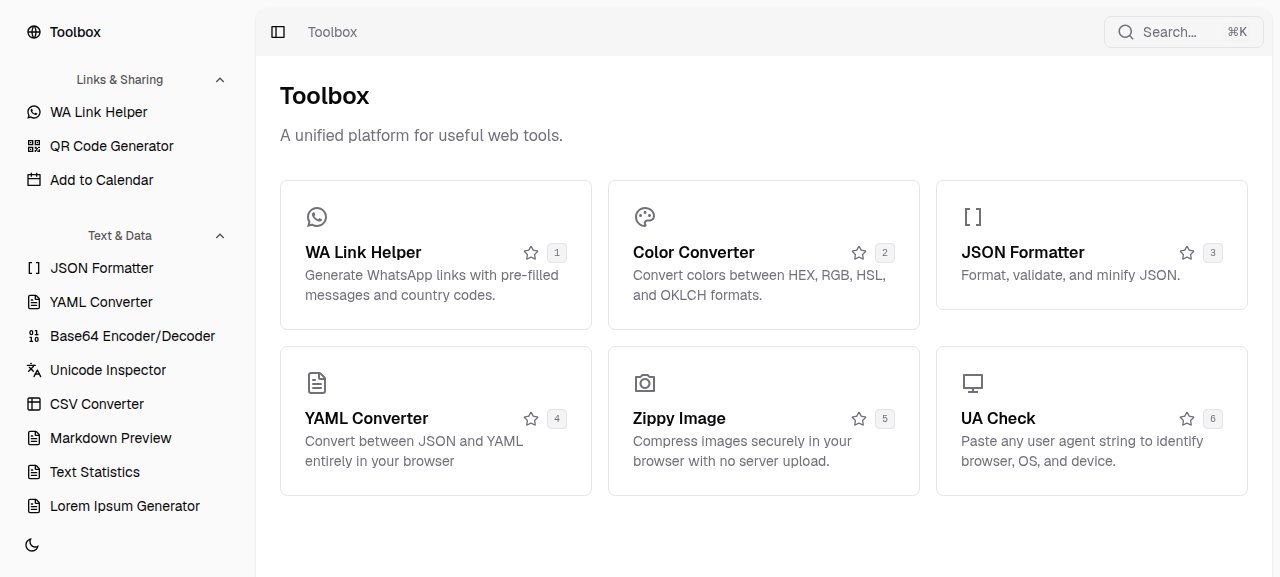
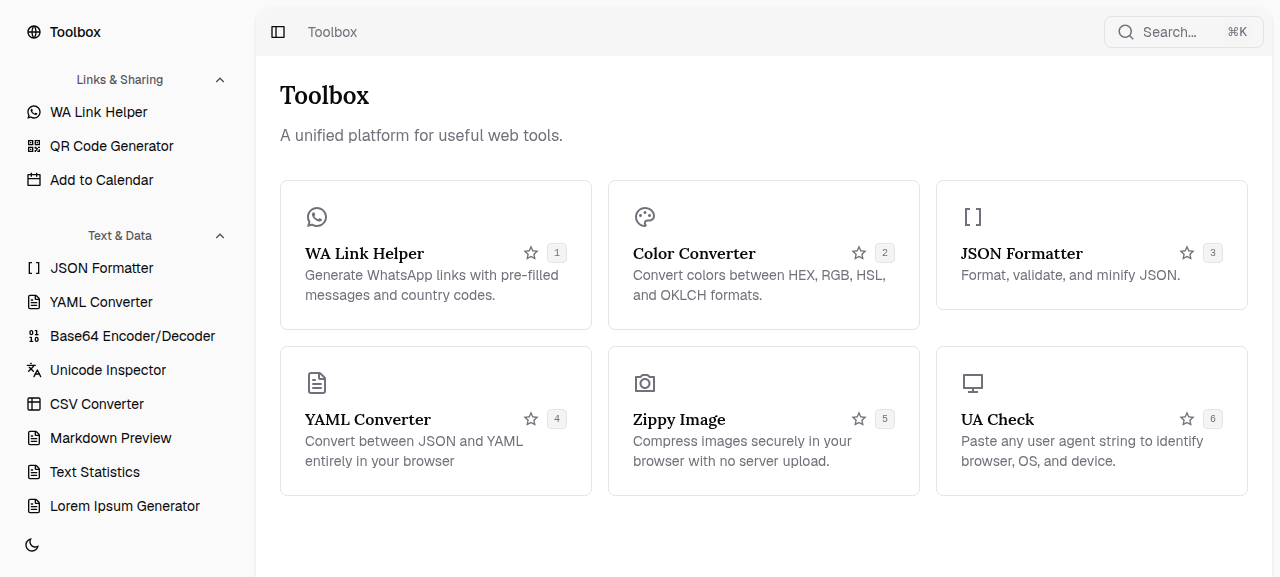
fix(ui): resolve menu crash and align display type with preset

diff --git a/src/routes/index.tsx b/src/routes/index.tsx
@@ -1,5 +1,5 @@
+import { RiStarFill, RiStarLine } from '@remixicon/react';
 import { createFileRoute, Link, useNavigate } from '@tanstack/react-router';
-import { Star } from 'lucide-react';
 import { useEffect } from 'react';
 
 import { StaggerChildren } from '@/lib/components/animations/stagger-children';
@@ -54,7 +54,7 @@ function HomePage() {
   return (
     <div className="flex flex-col gap-y-8">
       <section className="space-y-3">
-        <h1 className="text-pretty font-semibold text-2xl/8 text-foreground">
+        <h1 className="text-pretty font-heading font-semibold text-2xl/8 text-foreground">
           {SITE_NAME}
         </h1>
         <p className="max-w-2xl text-muted-foreground">{SITE_DESCRIPTION}</p>
@@ -62,7 +62,9 @@ function HomePage() {
 
       {pinnedTools.length > 0 && (
         <section className="space-y-4">
-          <h2 className="font-semibold text-foreground text-lg">Pinned</h2>
+          <h2 className="font-heading font-semibold text-foreground text-lg">
+            Pinned
+          </h2>
           <StaggerChildren className="grid gap-4 md:grid-cols-2 lg:grid-cols-3">
             {pinnedTools.map((tool) => (
               <ToolCard
@@ -113,7 +115,7 @@ function ToolCard({ isPinned, shortcut, togglePin, tool }: ToolCardProps) {
       </div>
       <CardHeader className="gap-y-1 p-0">
         <div className="flex items-center justify-between gap-2">
-          <h2 className="font-semibold text-base/6 text-foreground">
+          <h2 className="font-heading font-semibold text-base/6 text-foreground">
             {tool.title}
           </h2>
           <div className="flex shrink-0 items-center gap-2">
@@ -129,9 +131,12 @@ function ToolCard({ isPinned, shortcut, togglePin, tool }: ToolCardProps) {
               type="button"
             >
               {pinned ? (
-                <Star className="size-4 text-amber-500" fill="currentColor" />
+                <RiStarFill
+                  aria-hidden="true"
+                  className="size-4 text-amber-500"
+                />
               ) : (
-                <Star className="size-4" />
+                <RiStarLine aria-hidden="true" className="size-4" />
               )}
             </button>
             {shortcut !== undefined && (

diff --git a/src/routes/homepage/-components/homepage-privacy.tsx b/src/routes/homepage/-components/homepage-privacy.tsx
@@ -2,7 +2,7 @@ export function HomepagePrivacy() {
   return (
     <section className="border-border/70 border-y bg-muted/40" id="privacy">
       <div className="mx-auto w-full max-w-7xl px-4 py-12 sm:py-16 lg:px-6">
-        <h2 className="max-w-xl text-balance font-semibold text-3xl text-foreground sm:text-4xl">
+        <h2 className="max-w-xl text-balance font-heading font-semibold text-3xl text-foreground sm:text-4xl">
           Your inputs stay yours.
         </h2>
         <p className="mt-3 max-w-2xl text-pretty text-muted-foreground">
@@ -10,7 +10,7 @@ export function HomepagePrivacy() {
         </p>
         <ul className="mt-8 grid list-none gap-6 p-0 sm:grid-cols-3">
           <li className="min-w-0">
-            <h3 className="text-balance font-semibold text-foreground">
+            <h3 className="text-balance font-heading font-semibold text-foreground">
               Processed in your browser
             </h3>
             <p className="mt-2 text-muted-foreground text-sm">
@@ -19,7 +19,7 @@ export function HomepagePrivacy() {
             </p>
           </li>
           <li className="min-w-0">
-            <h3 className="text-balance font-semibold text-foreground">
+            <h3 className="text-balance font-heading font-semibold text-foreground">
               No account needed
             </h3>
             <p className="mt-2 text-muted-foreground text-sm">
@@ -28,7 +28,7 @@ export function HomepagePrivacy() {
             </p>
           </li>
           <li className="min-w-0">
-            <h3 className="text-balance font-semibold text-foreground">
+            <h3 className="text-balance font-heading font-semibold text-foreground">
               Leave with a result
             </h3>
             <p className="mt-2 text-muted-foreground text-sm">

diff --git a/src/routes/_tools/meeting-time-finder/-components/strip-anchor.tsx b/src/routes/_tools/meeting-time-finder/-components/strip-anchor.tsx
@@ -3,6 +3,7 @@ import { RiArrowDownSLine } from '@remixicon/react';
 import {
   DropdownMenu,
   DropdownMenuContent,
+  DropdownMenuGroup,
   DropdownMenuItem,
   DropdownMenuLabel,
   DropdownMenuSeparator,
@@ -58,18 +59,20 @@ export function StripAnchor({
         <RiArrowDownSLine aria-hidden="true" className="size-4 opacity-70" />
       </DropdownMenuTrigger>
       <DropdownMenuContent align="end" side="bottom">
-        <DropdownMenuLabel>View in timezone</DropdownMenuLabel>
-        <DropdownMenuItem onClick={() => handleSelect('UTC')}>
-          UTC
-        </DropdownMenuItem>
-        {cities.map((city) => (
-          <DropdownMenuItem
-            key={city.id}
-            onClick={() => handleSelect(city.timezone)}
-          >
-            {city.name}
+        <DropdownMenuGroup>
+          <DropdownMenuLabel>View in timezone</DropdownMenuLabel>
+          <DropdownMenuItem onClick={() => handleSelect('UTC')}>
+            UTC
           </DropdownMenuItem>
-        ))}
+          {cities.map((city) => (
+            <DropdownMenuItem
+              key={city.id}
+              onClick={() => handleSelect(city.timezone)}
+            >
+              {city.name}
+            </DropdownMenuItem>
+          ))}
+        </DropdownMenuGroup>
         <DropdownMenuSeparator />
         <DropdownMenuItem onClick={() => handleSelect('now')}>
           Jump to now — <span className="tabular-nums">{nowLabel}</span>

diff --git a/src/routes/homepage/-components/homepage-tools.tsx b/src/routes/homepage/-components/homepage-tools.tsx
@@ -201,7 +201,7 @@ function NoToolsAvailable() {
   return (
     <section className={`${sectionClass} py-12 sm:py-16`} id="tools">
       <div className="mb-8 max-w-2xl">
-        <h2 className="text-balance font-semibold text-3xl text-foreground sm:text-4xl">
+        <h2 className="text-balance font-heading font-semibold text-3xl text-foreground sm:text-4xl">
           Find the right tool.
         </h2>
         <p className="mt-3 text-pretty text-muted-foreground">
@@ -273,7 +273,7 @@ export function HomepageTools({
   return (
     <section className={`${sectionClass} py-12 sm:py-16`} id="tools">
       <div className="mb-8 max-w-2xl">
-        <h2 className="text-balance font-semibold text-3xl text-foreground sm:text-4xl">
+        <h2 className="text-balance font-heading font-semibold text-3xl text-foreground sm:text-4xl">
           Find the right tool.
         </h2>
         <p className="mt-3 text-pretty text-muted-foreground">

diff --git a/src/routes/homepage/-components/homepage-sections.tsx b/src/routes/homepage/-components/homepage-sections.tsx
@@ -104,7 +104,7 @@ export function HomepageHero({
   return (
     <section className="border-border/70 border-b bg-background">
       <div className={`${sectionClass} py-12 text-center sm:py-16`}>
-        <h1 className="wrap-anywhere mx-auto max-w-5xl text-balance font-semibold text-5xl text-foreground sm:text-6xl lg:text-7xl">
+        <h1 className="wrap-anywhere mx-auto max-w-5xl text-balance font-heading font-semibold text-5xl text-foreground sm:text-6xl lg:text-7xl">
           Small tasks.
           <br />
           Consider them handled.
